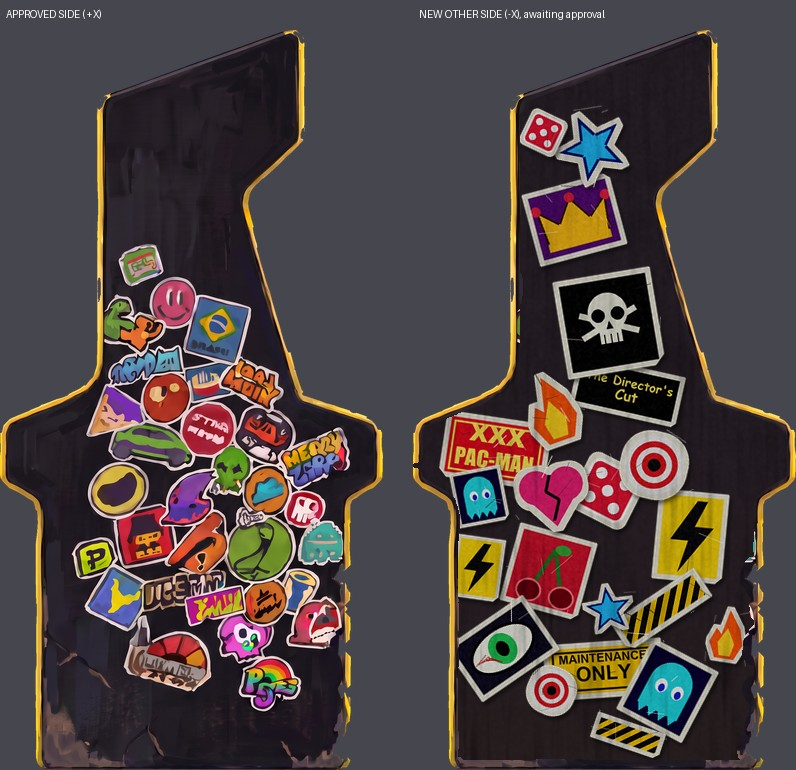
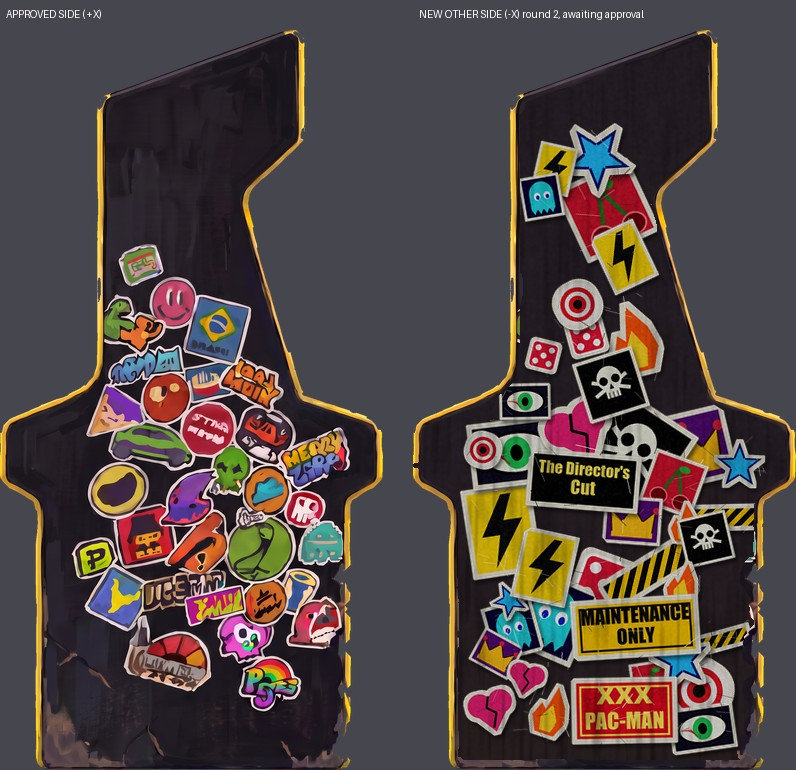
art(cabinet): other-side art round 2: lettering on top and unclipped, Impact sign face, denser grimier stickers, emit derived faint from day (mean 0.99 vs approved 1.09)
Claude-Session: https://claude.ai/code/session_01Rk2Ri3vAu7TBhRadSU9CbJ

Changed region(s): [[0.5427, 0.1247, 0.9648, 0.9974], [0.6633, 0.0, 0.8141, 0.0312]]

diff --git a/Assets/Graphics/worlds/debaucheryville/absinthearcade/protocol_trial_cabinet/scripts/make_other_side.py b/Assets/Graphics/worlds/debaucheryville/absinthearcade/protocol_trial_cabinet/scripts/make_other_side.py
@@ -64,10 +64,10 @@ def scuff(st):
     n = ndi.gaussian_filter(nrng.normal(0, 1, (h, w)), 2.5) * 40
     a[..., :3] = np.clip(a[..., :3] * 0.82 + n[..., None] * 0.5 - 8, 0, 255)
     dirt = ndi.gaussian_filter(nrng.normal(0, 1, (h, w)), 5) > 0.9
-    a[dirt, :3] *= 0.55
+    a[dirt, :3] *= 0.45
     im = Image.fromarray(a.astype(np.uint8), "RGBA")
     dr = ImageDraw.Draw(im)
-    for _ in range(rng.randint(3, 7)):
+    for _ in range(rng.randint(6, 12)):
         x, y = rng.randrange(w), rng.randrange(h)
         l = rng.randint(10, 60) * S // 2
         t = rng.uniform(0, 6.28)
@@ -218,18 +218,23 @@ def mk_hazard(w, h):
 Y = (255, 235, 90, 255)
 specs = [  # (maker, scale, glows in emit)
     (lambda: mk_text(["XXX", "PAC-MAN"], 96, 56, (230, 20, 40, 255), Y, ["ariblk.ttf", "impact.ttf"], [24, 22], Y), 1.0, True),  # doc: clawmachinemaintenanceclosetrestroom.md:30,82
-    (lambda: mk_text(["The Director's", "Cut"], 104, 44, (14, 14, 14, 255), Y, ["comicbd.ttf", "comicbd.ttf"], [13, 15]), 0.95, False),  # doc: ...:30
-    (lambda: mk_text(["MAINTENANCE", "ONLY"], 108, 46, (250, 200, 0, 255), (20, 20, 20, 255), ["arialbd.ttf", "arialbd.ttf"], [12, 20], (20, 20, 20, 255)), 1.0, False),  # doc: ...:30
+    (lambda: mk_text(["The Director's", "Cut"], 108, 50, (14, 14, 14, 255), Y, ["impact.ttf", "impact.ttf"], [17, 19]), 0.95, False),  # doc: ...:30
+    (lambda: mk_text(["MAINTENANCE", "ONLY"], 118, 50, (250, 200, 0, 255), (20, 20, 20, 255), ["impact.ttf", "impact.ttf"], [20, 20], (20, 20, 20, 255)), 1.0, False),  # doc: ...:30
     (mk_bolt, 1.0, True), (mk_cherries, 1.0, False), (mk_eye, 1.0, True), (mk_crown, 1.0, False), (mk_dice, 0.95, False),
     (mk_ghost, 1.0, True), (mk_skullbones, 1.1, False), (mk_target, 0.9, False), (mk_flame, 0.95, True), (mk_star, 0.95, False),
     (mk_heartbroke, 1.0, False), (lambda: mk_hazard(90, 24), 1.0, False), (mk_bolt, 0.7, False), (mk_star, 0.65, False),
     (mk_dice, 0.6, False), (mk_flame, 0.7, False), (mk_ghost, 0.7, False), (lambda: mk_hazard(70, 20), 0.9, False), (mk_target, 0.65, False),
+    (mk_cherries, 0.7, False), (mk_eye, 0.7, False), (mk_crown, 0.65, False), (mk_skullbones, 0.7, False), (mk_heartbroke, 0.7, False),
+    (mk_bolt, 0.55, False), (mk_flame, 0.55, False), (mk_star, 0.5, False), (mk_ghost, 0.55, False), (mk_cherries, 0.55, False),
+    (mk_target, 0.5, False), (mk_dice, 0.5, False), (mk_eye, 0.55, False), (mk_crown, 0.5, False), (mk_skullbones, 0.55, False),
+    (lambda: mk_hazard(60, 16), 0.8, False), (mk_heartbroke, 0.55, False), (mk_bolt, 0.8, False), (mk_star, 0.8, False), (mk_flame, 0.6, False),
 ]
 
 elig = ndi.binary_erosion(inside, iterations=22)
 ys, xs = np.nonzero(elig)
 placed = []
 day_l = img.copy()
+layers = []
 emit_l = Image.new("RGBA", (W, H), (0, 0, 0, 0))
 for idx, (maker, sc, gl) in enumerate(specs):
     st = scuff(die_cut(maker()))
@@ -248,7 +253,7 @@ for idx, (maker, sc, gl) in enumerate(specs):
                  for dx in (-1, 1) for dy in (-1, 1))
         if not ok:
             continue
-        if any(math.hypot(cx - px, cy - py) < (r + pr) * (0.8 if tries < 2500 else 0.55) for px, py, pr in placed):
+        if any(math.hypot(cx - px, cy - py) < (r + pr) * (0.62 if tries < 1500 else 0.42) for px, py, pr in placed):
             continue
         break
     else:
@@ -256,15 +261,17 @@ for idx, (maker, sc, gl) in enumerate(specs):
         continue
     placed.append((cx, cy, r))
     pos = (int(cx - rot.width / 2), int(cy - rot.height / 2))
-    sh = Image.new("RGBA", rot.size, (0, 0, 0, 0))
-    sh.putalpha(rot.split()[3].point(lambda v: int(v * 0.55)))
-    sh = sh.filter(ImageFilter.GaussianBlur(2))
-    day_l.alpha_composite(sh, (pos[0] + 2, pos[1] + 3))
-    day_l.alpha_composite(rot, pos)
+    layers.append((idx, rot, pos))
     if gl:
         e = np.array(rot).astype(np.float32)
         e[..., :3] *= 0.45
         emit_l.alpha_composite(Image.fromarray(e.astype(np.uint8), "RGBA"), pos)
+for idx, rot, pos in sorted(layers, key=lambda t: (t[0] < 3, t[0])):   # lettering stickers (0-2) composited last, fully on top
+    sh = Image.new("RGBA", rot.size, (0, 0, 0, 0))
+    sh.putalpha(rot.split()[3].point(lambda v: int(v * 0.6)))
+    sh = sh.filter(ImageFilter.GaussianBlur(2))
+    day_l.alpha_composite(sh, (pos[0] + 2, pos[1] + 3))
+    day_l.alpha_composite(rot, pos)
 print("placed", len(placed), "of", len(specs))
 
 a_final = np.array(day.split()[3])
@@ -272,7 +279,7 @@ dayo = np.array(day_l)
 # overall grime over stickers and body: smudge blotches + drips from the foot (painted, flat)
 gr = ndi.gaussian_filter(nrng.normal(0, 1, (H, W)), 9) * 1.0 + ndi.gaussian_filter(nrng.normal(0, 1, (H, W)), (30, 1.5)) * 1.4
 gr = np.clip(gr, 0, None); gr = gr / (gr.max() + 1e-6)
-fac = 1 - 0.38 * gr[..., None] * (0.4 + 0.6 * np.linspace(0, 1, H)[:, None, None])
+fac = 1 - 0.5 * gr[..., None] * (0.4 + 0.6 * np.linspace(0, 1, H)[:, None, None])
 dayo[..., :3] = np.clip(dayo[..., :3].astype(np.float32) * fac, 0, 255).astype(np.uint8)
 dayo[rim] = np.array(day)[rim]  # keep the approved rim crisp
 
@@ -285,12 +292,21 @@ nout = dayo.astype(np.float32)
 for c in range(3):
     nout[..., c] = np.clip(dayo[..., c] * coef[c][0] + coef[c][1], 0, 255)
 
-# emit: black base, dim glow on the glowing stickers only (approved emit peaks near 120-146)
-el = np.array(emit_l)
+# emit: derived from the new day the way the approved emit relates to its day: near-black, a FAINT copy of sticker colour
+# (not body, not white vinyl border) with a few slightly brighter stickers; gain fitted so mean matches the approved emit.
+ae = np.array(Image.open(f"{SRC}/aa_prop_cabinet_side_emit.png").convert("RGBA"))
+tgt_mean = ae[..., :3][a_final > 200].mean()
+base = dayo[..., :3].astype(np.float32)
+sat = base.max(-1) - base.min(-1)
+art = (sat > 70) & (base.max(-1) > 90)                       # saturated sticker ink only
+art &= ~np.array(dist <= 9)                                  # never the rim
+gain = ndi.gaussian_filter(nrng.uniform(0.4, 1.6, (H, W)), 14) * 1.0   # patchy: some stickers a little brighter
+gain = gain / gain.mean()
 eo = np.zeros_like(dayo)
-el3 = el[..., :3].astype(np.int32)
-white = (el3.min(-1) > 170) & ((el3.max(-1) - el3.min(-1)) < 40)   # the vinyl die-cut border does not glow
-eo[..., :3] = np.clip(el[..., :3] * ((el[..., 3:4] > 0) & ~white[..., None]), 0, 140)
+e = base * art[..., None] * gain[..., None]
+k = tgt_mean * m.size / max(1.0, (e[m].sum() / 3.0 * 1.0)) if False else tgt_mean / max(1e-6, e[m].mean())
+eo[..., :3] = np.clip(e * k, 0, 140).astype(np.uint8)
+print("emit mean new", eo[..., :3][m].mean().round(2), "approved", round(float(tgt_mean), 2))
 
 os.makedirs(OUT, exist_ok=True)
 for name, arr in (("day", dayo), ("night", nout.astype(np.uint8)), ("emit", eo)):
